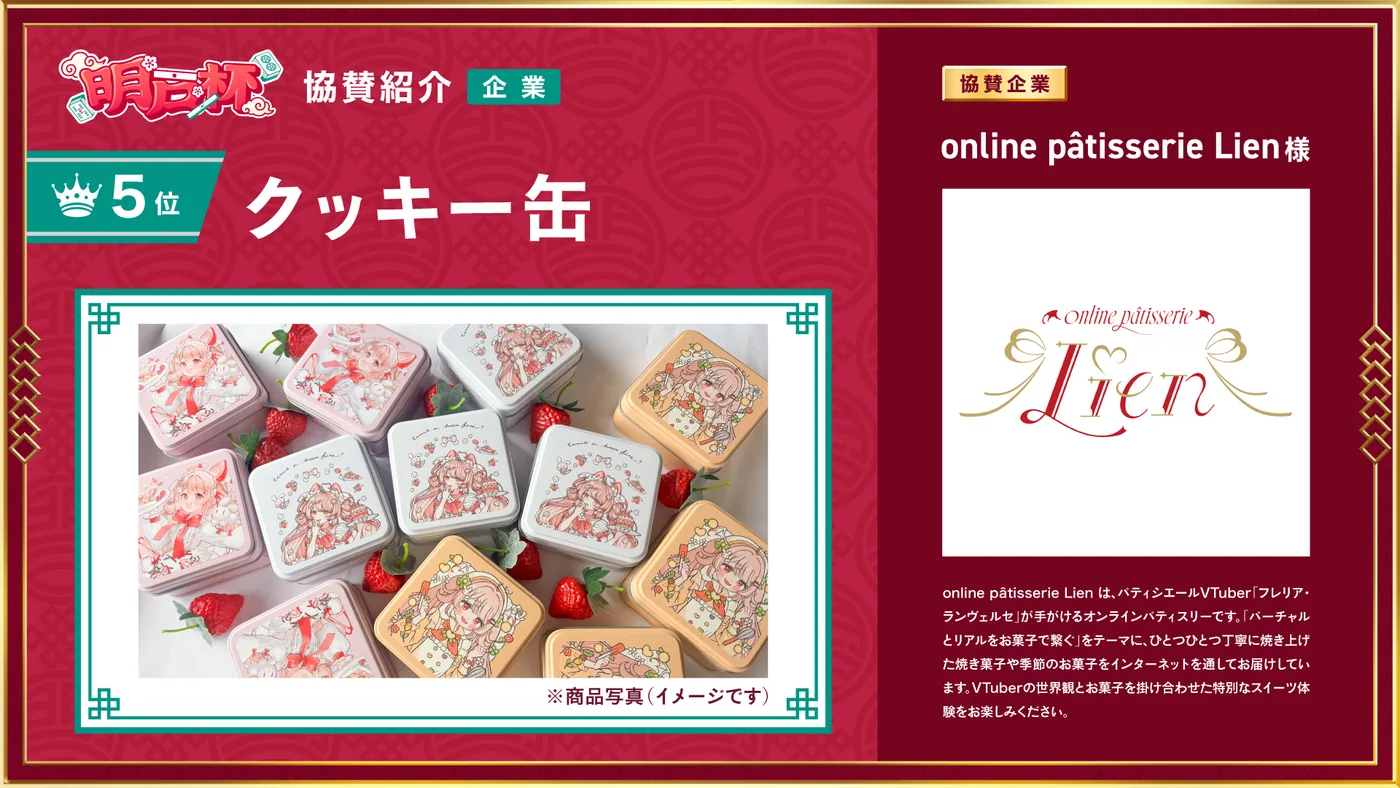
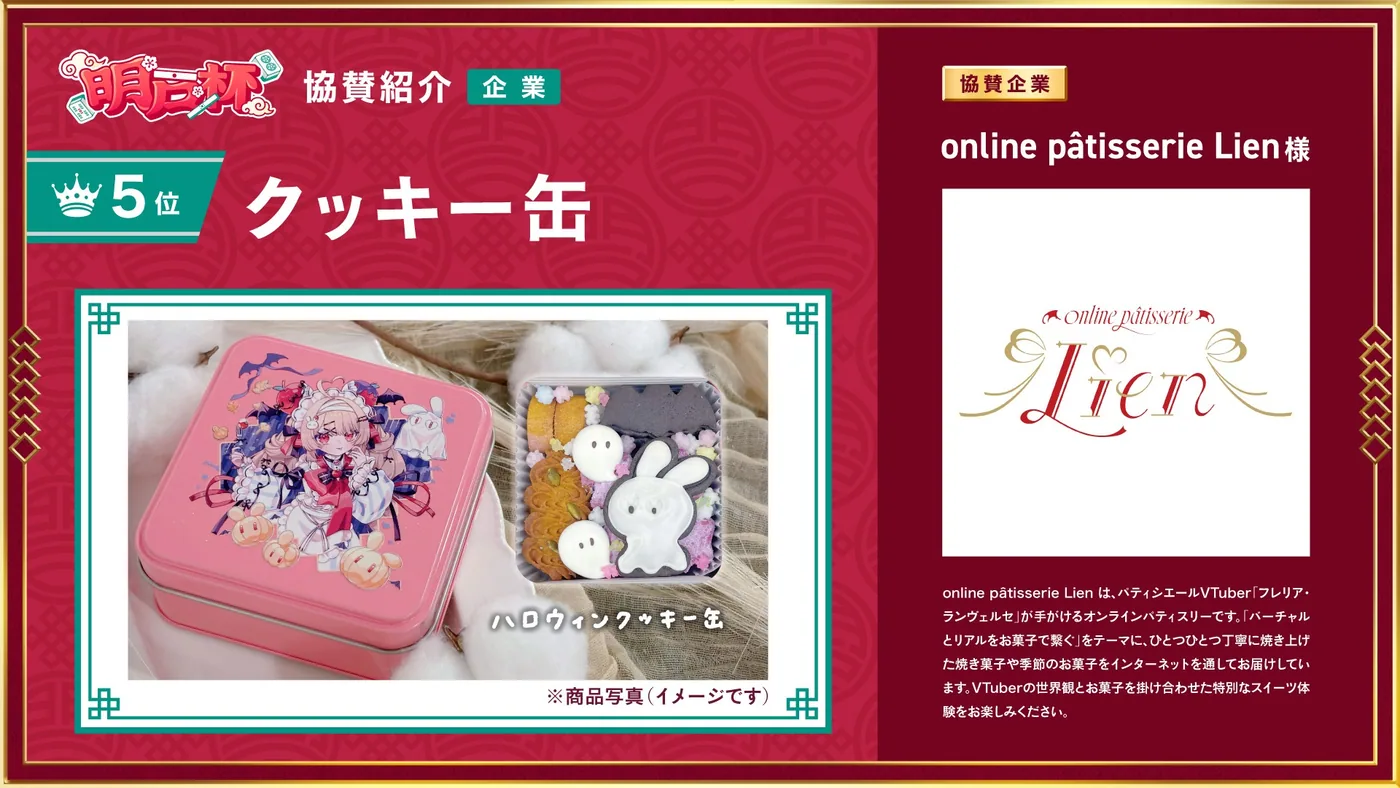
1012追加

Changed region(s): [[0.0921, 0.3959, 0.5529, 0.8832]]

diff --git a/site/src/data/prizes.ts b/site/src/data/prizes.ts
@@ -103,7 +103,7 @@ export const RANK_PRIZES: Prize[] = [
   },
   {
     rank: '9〜10位',
-    item: '麻雀モチーフ雑貨',
+    item: '麻雀モチーフのハンドメイドセット(ランダム)',
     sponsor: 'めりぃぱめりぃ様',
     image: 'rank09-10-merrypamerry.webp',
   },

diff --git a/site/public/assets/RENAME.md b/site/public/assets/RENAME.md
@@ -2,9 +2,9 @@
 
 `tools/import-assets.mjs` が自動生成しています。手で編集しないでください。
 
-- 生成日時: 2026/10/10 14:12:13
+- 生成日時: 2026/10/12 10:11:45
 - 元素材フォルダ: `素材フォルダ追加含む`
-- 合計: 62 ファイル / 4020 KB
+- 合計: 62 ファイル / 4018 KB
 
 元素材のファイル名は日本語や記号を含み、そのままでは URL に使えないため、
 半角英数のファイル名へ変換したうえで `site/public/assets/` 配下に配置しています。
@@ -80,12 +80,12 @@
 | `デザイン周り/協賛紹介画像/協賛紹介_企業_2位_株式会社木村酒造様.jpg` | `public/assets/prizes/rank02-kimura-shuzo.webp` | 2位 賞品紹介 | 1400×788 / 122 KB |
 | `1010追加分/ウザク式様修正.webp` | `public/assets/prizes/rank03-uzakushiki.webp` | 3位 賞品紹介 | 1400×788 / 92 KB |
 | `デザイン周り/協賛紹介画像/協賛紹介_企業_4位_合資会社奥山商店様.jpg` | `public/assets/prizes/rank04-okuyama-shoten.webp` | 4位 賞品紹介 | 1400×788 / 75 KB |
-| `デザイン周り/協賛紹介画像/協賛紹介_企業_5位_online pâtisserie Lien様.jpg` | `public/assets/prizes/rank05-lien.webp` | 5位 賞品紹介 | 1400×788 / 123 KB |
+| `1012追加分/5_online_patisserie_Lien.png` | `public/assets/prizes/rank05-lien.webp` | 5位 賞品紹介 | 1400×788 / 104 KB |
 | `デザイン周り/協賛紹介画像/協賛紹介_企業_6〜7位_沼津麺百式様.jpg` | `public/assets/prizes/rank06-07-men-hyakushiki.webp` | 6〜7位 賞品紹介 | 1400×788 / 94 KB |
 | `デザイン周り/協賛紹介画像/協賛紹介_個人_8位_麻雀雑貨Lemo様` | `public/assets/prizes/rank08-lemo.webp` | 8位 賞品紹介 | 1400×788 / 89 KB |
-| `デザイン周り/協賛紹介画像/協賛紹介_企業_９〜10位_めりぃぱめりぃ様.jpg` | `public/assets/prizes/rank09-10-merrypamerry.webp` | 9〜10位 賞品紹介 | 1400×788 / 79 KB |
+| `1012追加分/めりぃぱめりぃ.png` | `public/assets/prizes/rank09-10-merrypamerry.webp` | 9〜10位 賞品紹介 | 1400×788 / 93 KB |
 | `デザイン周り/協賛紹介画像/協賛紹介_企業_特別賞_スリーアール株式会社様.jpg` | `public/assets/prizes/special-3r-zoniq.webp` | 集中してたで賞 紹介 | 1400×788 / 79 KB |
-| `デザイン周り/協賛紹介画像/協賛紹介_企業_online pâtisserie Lien様_特別賞.jpg` | `public/assets/prizes/special-lien-cookie.webp` | 個人協賛感謝賞 紹介 | 1400×788 / 90 KB |
+| `1012追加分/個人協賛感謝賞.png` | `public/assets/prizes/special-lien-cookie.webp` | 個人協賛感謝賞 紹介 | 1400×788 / 94 KB |
 | `0905追加分/役満賞.png` | `public/assets/prizes/personal-santanda.webp` | 役満賞 紹介（三反田様） | 1400×788 / 94 KB |
 | `デザイン周り/協賛紹介画像/協賛紹介_個人_百軒カナリ様_` | `public/assets/prizes/personal-kanari.webp` | 本日のキュイ賞 紹介 | 1400×788 / 122 KB |
 | `デザイン周り/協賛紹介画像/協賛紹介_個人_うくな様_` | `public/assets/prizes/personal-ukuna.webp` | これが国士無双で賞 紹介 | 1400×788 / 108 KB |
